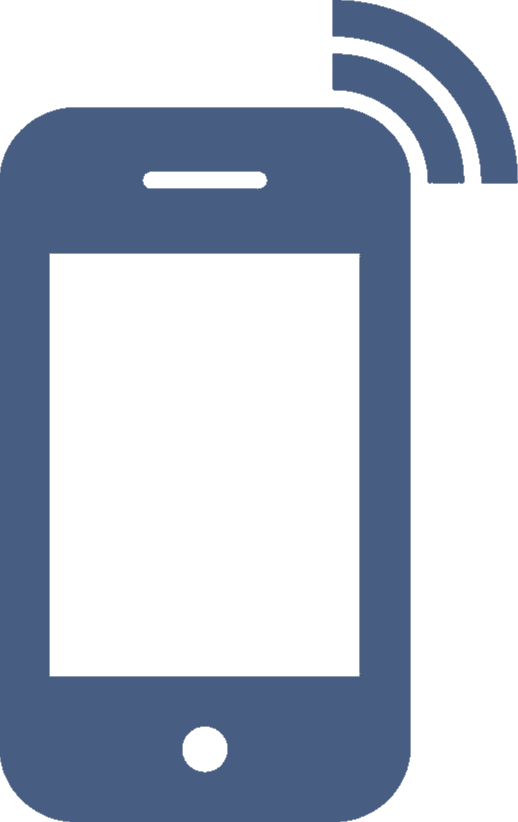
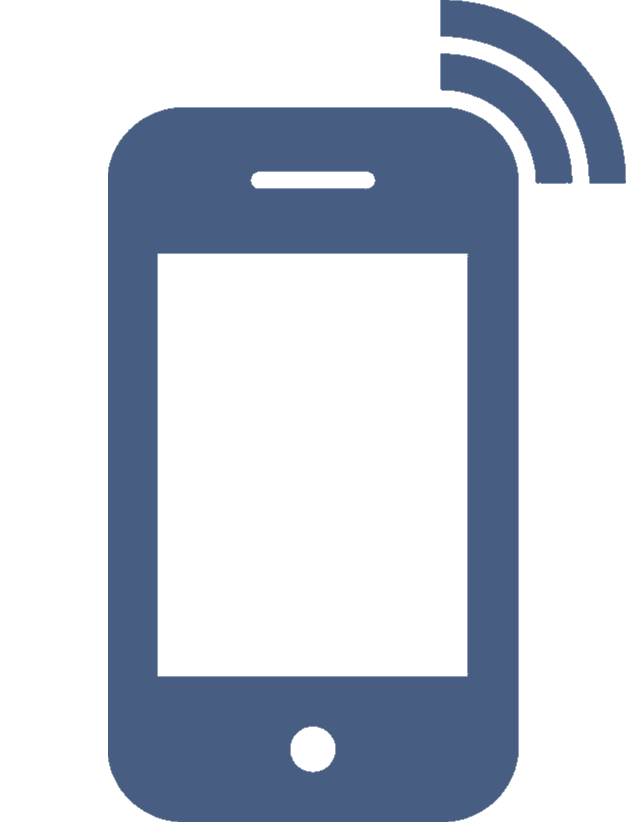
Visual changes

diff --git a/index.html b/index.html
@@ -140,12 +140,12 @@
                     </div>
                     <div class="product-card" data-category="meat">
                         <div class="product-card__image"><img src="img/beefLeg.png" alt="Говядина" loading="lazy"></div>
-                        <div class="product-card__name">Говядина (задняя)</div>
+                        <div class="product-card__name">Говядина<br>(задняя часть)</div>
                         <div class="product-card__price">450 ₽ / кг</div>
                     </div>
                     <div class="product-card" data-category="meat">
                         <div class="product-card__image"><img src="img/beefNeck.png" alt="Говядина" loading="lazy"></div>
-                        <div class="product-card__name">Говядина (передняя)</div>
+                        <div class="product-card__name">Говядина<br>(передняя часть)</div>
                         <div class="product-card__price">420 ₽ / кг</div>
                     </div>
                     <div class="product-card" data-category="meat">
@@ -170,25 +170,32 @@
                 </div>
 
                 <div class="facts-grid reveal reveal-second">
-                    <div class="fact-card">
-                        <h3>🏭 Собственный цех</h3>
-                        <p>Фасовка и переработка в творог, сыр, сметану и другие продукты производится без привлечения третьих лиц</p>
-                        <br>
-                        <h3>✅ Гарантия качества</h3>
-                        <p>Молоко и молочные продукты производятся по традиционным технологиям и рецептам</p>
+                    <div class="left-cards">
+                        <div class="fact-card">
+                            <h3>🏭 Собственный цех</h3>
+                            <p>Фасовка и переработка в творог, сыр, сметану и другие продукты производится без привлечения третьих лиц</p>
+                        </div>
+                        <div class="fact-card">
+                            <h3>✅ Гарантия качества</h3>
+                            <p>Молоко и молочные продукты производятся по традиционным технологиям и рецептам</p>
+                        </div>
                     </div>
 
                     <div class="fact-image">
                         <img src="img/milk.webp" alt="Стакан молока" loading="lazy">
                     </div>
 
-                    <div class="fact-card">
-                        <h3>🌱 Экологически чистый продукт</h3>
-                        <p>Производится в экологически чистом районе, без применения химических добавок</p>
-                        <br>
-                        <h3>❤ Сделано с любовью</h3>
-                        <p>Мы любим своё дело и стараемся для Вас, чтобы наше молоко оставалось лучшим</p>
+                    <div>
+                        <div class="fact-card">
+                            <h3>🌱 Экологически чистый продукт</h3>
+                            <p>Производится в экологически чистом районе, без применения химических добавок</p>
+                        </div>
+                        <div class="fact-card">
+                            <h3>❤ Сделано с любовью</h3>
+                            <p>Мы любим своё дело и стараемся для Вас, чтобы наше молоко оставалось лучшим</p>
+                        </div>
                     </div>
+
                 </div>
             </div>
         </section>
@@ -202,21 +209,28 @@
 
                 <div class="delivery-steps reveal reveal-second">
                     <div class="delivery-step">
-                        <img src="img/mobile.png" alt="Заказ">
-                        <h3>Заказ</h3>
-                        <p>Свяжитесь с нами, чтобы уточнить время доставки и выбранные продукты</p>
+                        <div class="wrap">
+                            <img src="img/mobile.png" alt="Заказ">
+                            <h3>Заказ</h3>
+                        </div>
+                        <div class="delivery-decription">Свяжитесь с нами, чтобы уточнить время доставки и выбранные продукты</div>
                     </div>
                     <div class="delivery-arrow">→</div>
                     <div class="delivery-step">
-                        <img src="img/cards.png" alt="Оплата">
-                        <h3>Оплата</h3>
-                        <p>Наличными при доставке или переводом — как вам удобнее</p>
+                        <div class="wrap">
+                            <img src="img/cards.png" alt="Оплата">
+                            <h3>Оплата</h3>
+                        </div>
+
+                        <div class="delivery-decription">Наличными при доставке или переводом — как вам удобнее</div>
                     </div>
                     <div class="delivery-arrow">→</div>
                     <div class="delivery-step">
-                        <img src="img/car.png" alt="Доставка">
-                        <h3>Доставка</h3>
-                        <p>Ожидайте доставку продуктов к согласованному времени</p>
+                        <div class="wrap">
+                            <img src="img/car.png" alt="Доставка">
+                            <h3>Доставка</h3>
+                        </div>
+                        <div class="delivery-decription">Ожидайте доставку продуктов к согласованному времени</div>
                     </div>
                 </div>
             </div>
@@ -607,6 +621,100 @@
         });
 
         document.querySelectorAll('.reveal').forEach(el => observer.observe(el));
+
+        //Анимация скрол-бара
+        (function() {
+
+
+            const grid = document.querySelector('.products-grid');
+            if (!grid) return;
+
+            const SPEED = 0.5; // пикселей за кадр
+            const PAUSE_AT_EDGE = 700; // пауза на краю, мс
+
+
+            let isPaused = false; // пауза на краю
+            let isHovered = false; // курсор над блоком
+            let rafId = null;
+
+            // === Остановка при наведении на сам контейнер ===
+            grid.addEventListener('mouseenter', () => {
+                isHovered = true;
+            });
+            grid.addEventListener('mouseleave', () => {
+                isHovered = false;
+            });
+
+            // На всякий случай — если курсор «залип» (например, после drag)
+            window.addEventListener('blur', () => {
+                isHovered = false;
+            });
+
+            const observer = new IntersectionObserver((entries, observer) => {
+                entries.forEach(entry => {
+                    if (entry.isIntersecting) {
+                        //Элемент появился на экране
+                        isHovered = false;
+                        let direction = 1;
+
+                        function step() {
+                            // Проверяем размеры на каждом кадре — решает проблему "не работает в начале"
+                            const maxScroll = grid.scrollWidth - grid.clientWidth;
+
+
+                            if (!isHovered && !isPaused && maxScroll > 0) {
+                                let next = grid.scrollLeft + SPEED * direction;
+
+                                if (Math.ceil(next) - 1 >= maxScroll) {
+                                    //смена направления;
+                                    direction = -1;
+                                    pause();
+
+                                } else if (next <= 0) {
+                                    direction = 1;
+                                    pause();
+                                }
+                                grid.scrollLeft = next + direction;
+                            }
+
+                            rafId = requestAnimationFrame(step);
+                        }
+
+                        function pause() {
+                            isPaused = true;
+                            setTimeout(() => {
+                                isPaused = false;
+                            }, PAUSE_AT_EDGE);
+                        }
+
+                        // Стартуем только после полной загрузки, чтобы размеры были корректными
+                        window.addEventListener('load', () => {
+                            rafId = requestAnimationFrame(step);
+                        });
+
+                        // Если load уже прошёл — стартуем сразу
+                        if (document.readyState === 'complete') {
+                            rafId = requestAnimationFrame(step);
+                        }
+
+                        document.addEventListener('visibilitychange', () => {
+                            if (document.hidden) {
+                                cancelAnimationFrame(rafId);
+                                rafId = null;
+                            } else if (!rafId) {
+                                rafId = requestAnimationFrame(step);
+                            }
+                        });
+                    } else {
+                        console.log('Элемент не видно!');
+                        isHovered = true;
+                    }
+                });
+            });
+            observer.observe(document.querySelector('.products-grid'));
+
+
+        })();
     </script>
 
 </body>

diff --git a/style.css b/style.css
@@ -14,6 +14,14 @@
         margin: 0;
         padding: 0;
     }
+    /* Отключение выделения  */
+    
+    * {
+        user-select: none;
+        -webkit-user-select: none;
+        -moz-user-select: none;
+        -ms-user-select: none;
+    }
     
     ul[class],
     ol[class] {
@@ -52,6 +60,7 @@
         color: #2D3E50;
         background: #FAFBFD;
         overflow: hidden;
+        cursor: default;
     }
     
     a {
@@ -434,6 +443,7 @@
     
     .filter-btn:hover {
         transform: translateY(-2px);
+        background: #cbbe9f;
     }
     
     .filter-btn.active {
@@ -449,16 +459,18 @@
     .products-grid {
         display: flex;
         flex-direction: column;
+        /* justify-content: center; */
+        align-items: center;
         flex-wrap: wrap;
         gap: 20px;
-        height: 300px;
-        max-height: 620px;
+        /* height: 300px;
+        max-height: 620px; */
         overflow-x: auto;
         overflow-y: hidden;
         padding: 10px 4px 20px;
         -webkit-overflow-scrolling: touch;
         scrollbar-width: auto;
-        align-content: flex-start;
+        /* align-content: flex-start; */
         cursor: grab;
         user-select: none;
         scroll-behavior: smooth;
@@ -543,6 +555,7 @@
         font-weight: 600;
         color: #1d1b18;
         margin-bottom: 4px;
+        line-height: 1;
     }
     
     .product-card__price {
@@ -563,12 +576,22 @@
         margin-top: 20px;
     }
     
-    .facts-grid .fact-card:first-child {
+    .left-cards {
         text-align: right;
     }
     
     .fact-card {
-        padding: 20px 0;
+        padding: 20px 10px;
+        margin-bottom: 15px;
+        border-radius: 20px;
+        border: 1px solid #fff;
+    }
+    
+    .fact-card:hover {
+        border: 1px solid #cedde9;
+        background: #f0f8ff;
+        transform: translateY(-4px);
+        transition: 0.3s;
     }
     
     .fact-card h3 {
@@ -617,6 +640,12 @@
         flex-wrap: wrap;
     }
     
+    .wrap {
+        display: flex;
+        flex-direction: column;
+        justify-content: center;
+    }
+    
     .delivery-step {
         background: rgba(255, 255, 255, 0.06);
         backdrop-filter: blur(10px);
@@ -649,7 +678,7 @@
         margin-bottom: 8px;
     }
     
-    .delivery-step p {
+    .delivery-step .delivery-decription {
         font-size: 14px;
         color: rgba(255, 255, 255, 0.7);
         line-height: 1.5;
@@ -962,9 +991,15 @@
         .facts-grid {
             grid-template-columns: 1fr;
             gap: 0;
+            display: flex;
+            flex-direction: column;
+            justify-content: center;
+            align-items: center;
+            align-content: center;
+            text-align: center;
         }
-        .facts-grid .fact-card:first-child {
-            text-align: left;
+        .facts-grid .fact-card {
+            padding: 20px 60px;
         }
         .fact-image img {
             max-height: 200px;
@@ -1010,8 +1045,10 @@
             align-items: center;
             gap: 5px;
         }
+        .wrap {
+            padding: 0 20px;
+        }
         .delivery-step {
-            max-width: 100%;
             width: 100%;
         }
         .delivery-arrow {
@@ -1026,7 +1063,20 @@
             height: 8px;
         }
         .delivery-step {
+            display: flex;
+            align-items: center;
+            gap: 20px;
             padding: 10px;
+        }
+        .left-cards {
+            text-align: inherit;
+        }
+        .products-grid {
+            gap: 5px
+        }
+        .product-card {
+            height: 215px;
+            min-height: auto;
         }
     }
     
@@ -1121,16 +1171,12 @@
     @media (max-width: 380px) {
         .product-card {
             flex: 0 0 140px;
-            height: 190px;
-            min-height: 190px;
+            min-height: 165px;
             width: 140px;
             padding: 10px 10px 10px;
         }
         .product-card__image {
             height: 70px;
-        }
-        .product-card__image img {
-            max-height: 70px;
         }
         .product-card__name {
             font-size: 11px;
